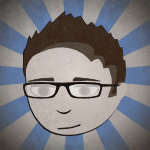
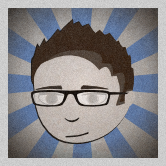
Prettied it up a bit

diff --git a/css/site.less b/css/site.less
@@ -8,13 +8,17 @@
 * Global
 */
 :focus{outline:1px dotted @base-text-grey;}
-html,footer,header{background-image:url("../img/333.jpg");background-repeat:repeat;}
+header{background-image:url("../img/header.jpg");background-repeat:repeat;}
+footer{background-image:url("../img/footer.jpg");background-repeat:repeat;}
+
+html{background-image:url("../img/222.jpg");background-repeat:repeat;}
+
 .container{margin:0 auto;}
 ul{list-style:none;padding:0;margin:0;}
 nav li{display:block;margin:0;padding:0;}
-body,h1,h2,h3,h4,h5{font-size:90%;color:@base-text-grey;font-family:"Helvetica Neue",Helvetica,Arial,sans-serif;font-weight:200;}
-body{background-color:@very-light-grey;}
-h1,h2,h3,h4,h5{text-transform:uppercase;letter-spacing:1px;font-weight:400;margin:1.5em 0 0 0;}
+body,h1,h2,h3,h4,h5{font-size:90%;color:@base-text-grey;font-family:"Helvetica Neue",Helvetica,Arial,sans-serif;font-weight:200;text-shadow:0 1px 0 rgba(255,255,255,1);}
+body {background-image: url("../img/eee.jpg");background-repeat: repeat;}
+h1,h2,h3,h4,h5{text-transform:uppercase;font-weight:400;margin:1.5em 0 0 0;}
 h2.post-title{font-size:1.5em;margin:1em 0 0 0;font-weight:300;}
 h3.post-title{font-size:1.2em;margin:1em 0 0.5em 0;font-weight:200;}
 .post-title{text-transform:none;}
@@ -28,15 +32,18 @@ a:hover{border-bottom:1px dotted @base-link-blue;}
 /*
 * Header
 */
-header{background-color:#fff;border-top:5px solid #000;border-bottom:1px solid @base-text-grey;height:82px;}
-header #spacer {height:20px;}
-header h1{text-transform:none;font-size:44px;margin:10px 0 10px 0;color:@very-light-grey;letter-spacing:1px;}
+header{border-top:10px solid #222;border-bottom:1px solid @base-text-grey;height:75px;}
+header #spacer {height:18px;}
+header h1{text-transform:none;font-size:44px;margin:8px 0 8px 0;color:@very-light-grey;letter-spacing:1px;}
 header h1 span.surname{color:@sub-text-grey;}
 nav#main li{float:right;}
 nav#main a, nav#main .selected {text-align:center;display:block;padding:1em 0 0.1em 0;letter-spacing:2px;text-transform:uppercase;font-size:14px;font-weight:400;margin:1em 1em 0 1em;}
 nav#main a:link,nav#main a:visited,nav#main a:active{color:@sub-text-grey;}
-nav#main a:hover{border-bottom:13px solid @base-link-blue;}
-nav#main .selected{border-bottom:12px solid @base-text-grey;color:@very-light-grey;}
+nav#main a:hover{border-bottom:8px solid @base-link-blue;}
+nav#main .selected{border-bottom:7px solid @base-text-grey;color:@very-light-grey;}
+/*header, header h1 {text-shadow: none}*/
+header, header h1 {text-shadow: 0 -1px 0 rgba(0,0,0,1)}
+
 /*
 * Content
 */
@@ -69,17 +76,22 @@ img.post-float-right{float:right;margin:10px 0 10px 10px;}
 #colophon li{padding:0.5em 0;}
 #colophon li.last{border-bottom:none;}
 article.post.excerpt{margin:1em 0;}
+p.bigger{font-size: 1.5em;}
 /*
 * Footer
 */
-footer{color:@sub-text-grey;margin:0;padding:0 0 5px 0;font-size:0.9em;border-top:1px solid @base-text-grey;}
+#frieze {height:40px;background-image: url("../img/header.jpg");background-repeat: repeat;}
+#runner {height:40px;background-image: url("../img/222.jpg");background-repeat: repeat;}
+
+footer {color:@light-grey;margin:0;padding:0 0 5px 0;font-size:0.9em;border-top:1px solid @base-text-grey;border-bottom:1px solid @base-text-grey;}
+footer, footer h2 {text-shadow:0 -1px 0 rgba(0,0,0,0.8);}
+/*footer, footer h2 {text-shadow:none;}*/
 footer h1,footer h2,footer h3,footer h4,footer h5{color:@sub-text-grey;}
 footer h2{font-weight:500;}
 footer a:link,footer a:visited,footer a:active{color:@base-link-blue;}
 footer a:hover{border-bottom:none;color:#fff;}
 footer #copyright{font-size:75%;width:100%;padding-top:10px;margin-top:10px;border-top:1px solid @base-text-grey;text-align:right;}
 img.profile-image{padding:1em 2em 0.5em 0.5em ;float:right;}
-/*footer li{border-bottom:1px dotted @base-text-grey;width:100%;padding:5px 0;}*/
 footer ul{margin:1em 0;}
 footer .heading h2{font-weight:normal;}
 footer li {padding:0;margin-bottom:0.5em;}
@@ -104,10 +116,11 @@ footer .span-3.last {width:180px; margin-right:0;}
  * Half court shot JS
  */
 .hcs{overflow:hidden;text-align:left;}
-.hcs ul,
-.hcs *{padding:0;margin:0;border:0;outline:0;list-style-type:none;}
-.hcs ul{margin:0 -5px;}
-.hcs li{width:100px;height:75px;position:relative;display:block;padding:5px;margin:5px 5px 0 5px;background:rgba(0,0,0,0.075);-webkit-border-radius:5px;-webkit-transition:background 0.2s linear;-moz-border-radius:5px;-moz-transition:background 0.2s linear;border-radius:5px;transition:background 0.2s linear;filter:progid:DXImageTransform.Microsoft.gradient(startColorstr=#14000000,endColorstr=#14000000);-ms-filter:"progid:DXImageTransform.Microsoft.gradient(startColorstr=#14000000,endColorstr=#14000000)";display:table;float:left;vertical-align:middle;}
+.hcs ul, .hcs *{padding:0;margin:0;border:0;outline:0;list-style-type:none;}
+.hcs ul {margin:0 auto;}
+
+.hcs li{width:100px;height:75px;position:relative;display:block;padding:5px;margin:5px 5px 5px 5px;background:rgba(0,0,0,0.075);-webkit-border-radius:5px;-webkit-transition:background 0.2s linear;-moz-border-radius:5px;-moz-transition:background 0.2s linear;border-radius:5px;transition:background 0.2s linear;filter:progid:DXImageTransform.Microsoft.gradient(startColorstr=#14000000,endColorstr=#14000000);-ms-filter:"progid:DXImageTransform.Microsoft.gradient(startColorstr=#14000000,endColorstr=#14000000)";display:table;float:left;vertical-align:middle;}
 .hcs li a{width:100px;height:75px;text-align:center;vertical-align:middle;display:table-cell;}
 .hcs li:hover{background:rgba(0,0,0,0.8);filter:progid:DXImageTransform.Microsoft.gradient(startColorstr=#CC000000,endColorstr=#CC000000);-ms-filter:"progid:DXImageTransform.Microsoft.gradient(startColorstr=#CC000000,endColorstr=#CC000000)";}
 .hcs img{width:auto;height:auto;max-width:100px;max-height:75px;border:0;-ms-interpolation-mode:bicubic;font-size:0;float:left;}
+.hcs a:hover {border-bottom:none;}

diff --git a/_layouts/default.html b/_layouts/default.html
@@ -27,7 +27,7 @@
     
     {% include analytics.html %}
   </head>
-  <body>
+  <body>    
     {% include header.html %}
 
     <div id="content" class="container">
@@ -35,9 +35,15 @@
         {{ content }}
       </section>
     </div>
-
+    <div id="frieze">
+    </div>
     {% include footer.html %}
+    <div id="runner">
+    </div>
+
+    {% if page.title == 'Home'% %}
     <script type="text/javascript" src ="/js/half-court-shot.jsapp.mh.min.101129.js"></script>
     <script type="text/javascript">var hcs = new HalfCourtShot({ jersey: "dlimiter", shots: 4, goal: 'mydribbble' });</script>
+    {% endif %}
   </body>
 </html>

diff --git a/index.html b/index.html
@@ -3,7 +3,7 @@ layout:   default
 title:    Home 
 --- 
 <div class="block-text span-12 last">
-  <p>
+  <p class="bigger">
     Hello! My name is Dave. I'm a Melbourne based web & software developer with a passion for illustration & design. 
     This is my personal website & blog, where you can find out more <a href="/about.html">about</a> me & read my <a href="/blog.html">writing</a> on development, design, politics & anything else that grabs my attention. 
   </p>

diff --git a/_includes/footer.html b/_includes/footer.html
@@ -11,7 +11,9 @@
 
     <div class="span-6">
       <h2>About Me</h2>
+      <div class="picture-frame">
       <img class="profile-image" src="/img/blue_profile.png" alt="my_face" height="100" width="100">
+      </div>
       <p>
         Dave Lim is a Melbourne based web & software developer with a passion for illustration & design. 
       </p>
